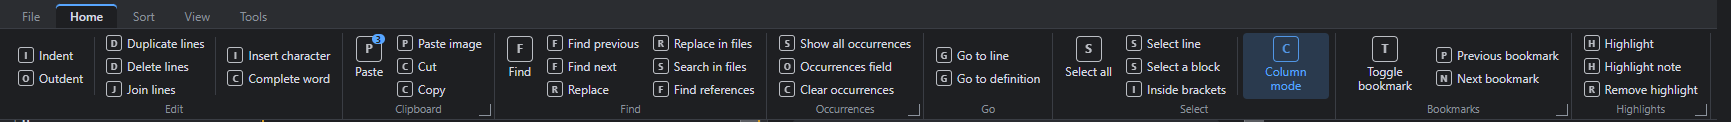
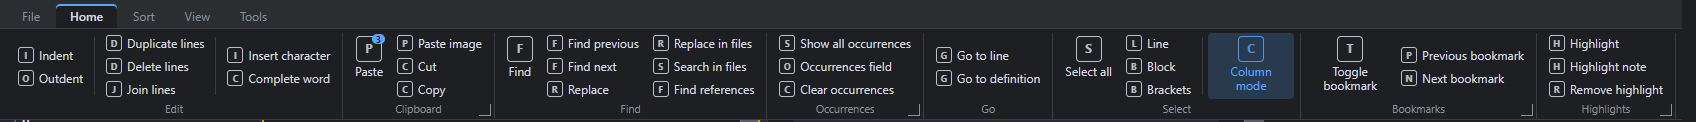
Plan 39: short labels of a button's own (Select: Line, Block, Brackets); Home measured again (1676 px)
Claude-Session: https://claude.ai/code/session_011ip4AMjLGVDRBeh8bEWE2k

diff --git a/docs/plans/39-PLAN-ribbon.md b/docs/plans/39-PLAN-ribbon.md
@@ -43,7 +43,7 @@ divider. "Corner": the action of the group's corner icon.
 | Find | Find (large) / Find previous + Find next + Replace / Replace in files + Search in files + Find references |
 | Occurrences | Show all occurrences + Occurrences field + Clear occurrences. Corner: Show / close the Occurrences bar |
 | Go | Go to line + Go to definition |
-| Select | Select all (large) / Select line + Select a block + Select inside brackets / divider / Column mode (large, a toggle) |
+| Select | Select all (large) / Line + Block + Brackets (Select line, Select a block, Select inside brackets) / divider / Column mode (large, a toggle) |
 | Bookmarks | Toggle unnumbered bookmark (large) / Previous bookmark + Next bookmark. Corner: Manage bookmarks |
 | Highlights | Highlight + Highlight note + Remove highlight. Corner: Highlights window |
 
@@ -79,8 +79,8 @@ divider. "Corner": the action of the group's corner icon.
 - **Editor and Preview** are not on Home: they are the switches at the window's top right, and View > Document.
 - **Day / Night**: the two values of Day / night, each its own button, the current one pressed.
 - **Width**, measured in a mock (a test copy, LexPen's own font and the Dark theme, group names on, a 1264 px wide
-  window): File 233 px, Home 1711 px, Sort 257 px, View 712 px, Tools 779 px. Home's groups: Edit 337, Clipboard
-  152, Find 273, Occurrences 157, Go 129, Select 283, Bookmarks 236, Highlights 139; the ribbon 120 px high with its
+  window): File 233 px, Home 1676 px, Sort 257 px, View 712 px, Tools 779 px. Home's groups: Edit 337, Clipboard
+  152, Find 273, Occurrences 157, Go 129, Select 248, Bookmarks 236, Highlights 139; the ribbon 120 px high with its
   tabs. Home does not fit that window (question 1).
 
 The mock, per tab (the icons are placeholders: a box with the label's first letter; the corner icon at the bottom
@@ -99,7 +99,8 @@ right of Clipboard, Occurrences, Bookmarks, Highlights and Sort):
 ### 3.2 Behaviour
 
 - **A button is an action**: it runs the action (actions.js) with its value, like a menu item; its tooltip is the
-  action's title and key. A toggle shows pressed when on (Wrap, Column mode, the panels); a button whose action is
+  action's title and key. Its label is the action's title, or a shorter one of its own where the group says the
+  rest ("Line" in Select for Select line). A toggle shows pressed when on (Wrap, Column mode, the panels); a button whose action is
   not available now is greyed out (the action's `enabled`). An action with choices (Line numbers) opens them as a
   small menu.
 - **Tabs**: a row of tab names on top; a click shows that tab's groups. The tab last shown is kept per window. The
@@ -132,7 +133,7 @@ right of Clipboard, Occurrences, Bookmarks, Highlights and Sort):
   `["preview.left"]`.
 - Reset: back to the shipped content.
 - `ribbon.json` in the data folder: `{ "tabs": [ { "name": "Home", "groups": [ { "name": "File", "more": "...", "items": [ { "action":
-  "save", "size": "large" }, { "action": "saveAs", "size": "small" }, { "action": "newFile", "size": "small",
+  "save", "size": "large" }, { "action": "selectLine", "label": "Line" }, { "action": "saveAs", "size": "small" }, { "action": "newFile", "size": "small",
   "stack": true }, { "action": "openFile", "size": "small", "stack": true }, "divider", ... ] } ] } ] }`. An action that no longer exists is skipped, not an error; a "stack"
   without a small button before it starts a column of its own.
 
@@ -173,7 +174,7 @@ right of Clipboard, Occurrences, Bookmarks, Highlights and Sort):
 
 ## 4. Open questions
 
-1. Home is wider than a 1264 px window (1711 px in the mock): split it into two tabs (for instance Home: Edit,
+1. Home is wider than a 1264 px window (1676 px in the mock): split it into two tabs (for instance Home: Edit,
    Clipboard, Find, Occurrences; and Navigate: Go, Select, Bookmarks, Highlights), make more of its large buttons small (Select
    all, Toggle bookmark), or keep it and let the right end go into the ">>" menu?
 2. History (Undo, Redo) on Sort, as now, or on Home, where the actions used most are?
